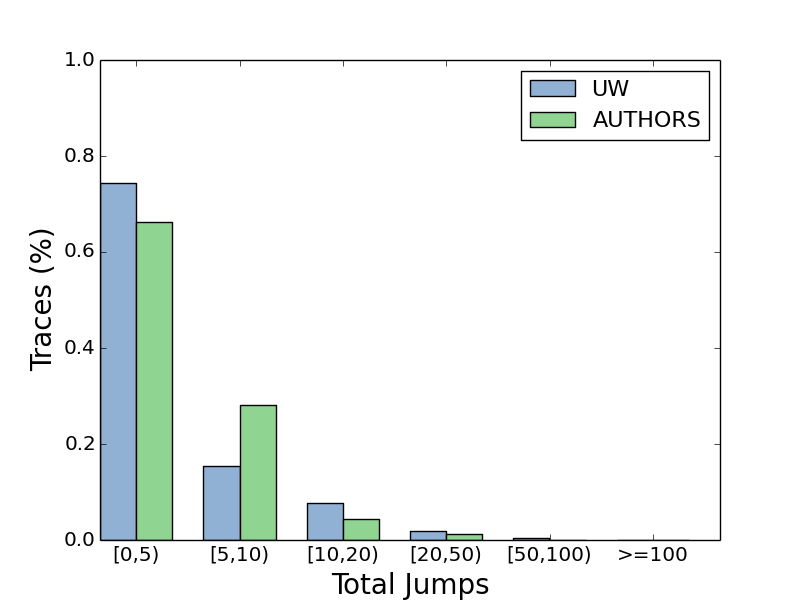
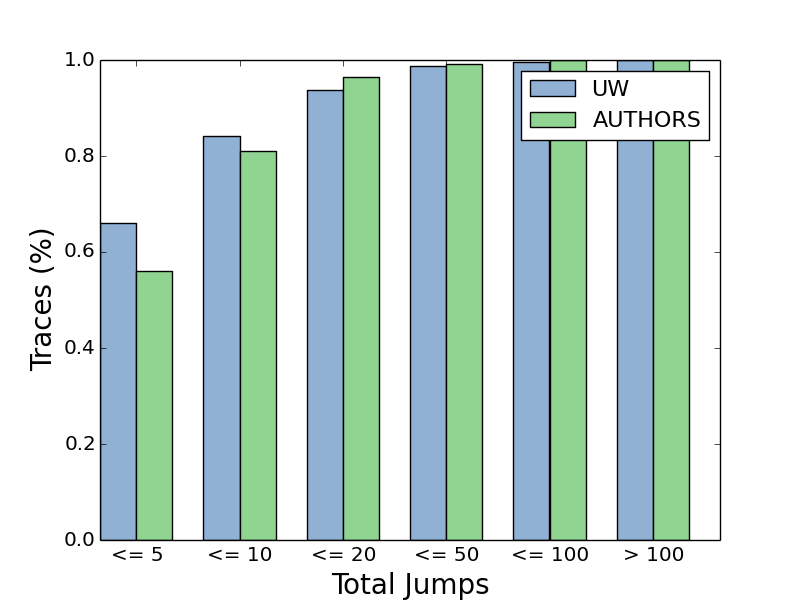
update numbers

diff --git a/paper/icfp16-submission/plots.py b/paper/icfp16-submission/plots.py
@@ -56,7 +56,7 @@ def plot_coverage(seminal, ucsd):
     p2 = plt.bar(ind + width, [r[1] for r in xy_u], width,
                  color=COLORS[1])
 
-    plt.xlabel('Witness found in <x seconds', fontsize=20)
+    plt.xlabel('Witness found in <= x seconds', fontsize=20)
     plt.ylabel('Witnesses Found (% of total programs)', fontsize=20)
     plt.title('Cumulative Coverage', fontsize=24)
     plt.xticks(ind + width, [r[0] for r in xy_s], fontsize='large')
@@ -69,6 +69,14 @@ def plot_coverage(seminal, ucsd):
     # plt.show()
     fig.savefig('coverage.png')
     plt.close()
+
+BINS = [5, 10, 20, 50, 100, 1000]
+
+def cumulative_trace_size(data):
+    return [len([r for r in data
+                 if r <= l])
+            / float(len(data))
+            for l in BINS]
 
 def plot_trace_size(seminal, ucsd):
     # xy = cumulative_coverage(data)
@@ -86,8 +94,7 @@ def plot_trace_size(seminal, ucsd):
     step_u = [int(r[5]) for r in ucsd[1:] if r[4] in UNSAFE and int(r[5]) > 0]
     jump_u = [int(r[6]) for r in ucsd[1:] if r[4] in UNSAFE and int(r[6]) > 0]
     
-    bins = [0, 5, 10, 20, 50, 100, 1000]
-    binlabels = ['[0,5)', '[5,10)', '[10,20)', '[20,50)', '[50,100)', '>=100']
+    binlabels = ['<= 5', '<= 10', '<= 20', '<= 50', '<= 100', '> 100']
     ind = np.arange(0, len(binlabels))
     width = 0.35
     # plt.figure(figsize=(100,50))
@@ -100,11 +107,18 @@ def plot_trace_size(seminal, ucsd):
     # ax.set(adjustable='box-forced', aspect=4)
 
     fig = plt.figure()
-    y,binEdges=np.histogram(step_s,bins=bins)
-    p1 = plt.bar(ind, y / float(len(step_s)), label='UW', width=width, color=COLORS[0])
+    # y,binEdges=np.histogram(step_s,bins=bins)
+    c_step_s = cumulative_trace_size(step_s)
+    print('step complexity')
+    print('seminal:\t{}\t{}\t{}'.format(c_step_s[0], c_step_s[1], len(step_s)))
+    print('avg/med/max:\t{}\t{}\t{}'.format(np.mean(step_s), np.median(step_s), np.max(step_s)))
+    p1 = plt.bar(ind, c_step_s, label='UW', width=width, color=COLORS[0])
 
-    y,binEdges=np.histogram(step_u,bins=bins)
-    p2 = plt.bar(ind + width, y / float(len(step_u)), label=UCSD, width=width, color=COLORS[1])
+    # y,binEdges=np.histogram(step_u,bins=bins)
+    c_step_u = cumulative_trace_size(step_u)
+    print('ucsd:\t\t{}\t{}\t{}'.format(c_step_u[0], c_step_u[1], len(step_u)))
+    print('avg/med/max:\t{}\t{}\t{}'.format(np.mean(step_u), np.median(step_s), np.max(step_u)))
+    p2 = plt.bar(ind + width, c_step_u, label=UCSD, width=width, color=COLORS[1])
     plt.legend((p1[0],p2[0]), ('UW',UCSD), fontsize=16)
     plt.title('Trace Complexity', fontsize=24)
     plt.xlabel('Total Steps', fontsize=20)
@@ -127,15 +141,20 @@ def plot_trace_size(seminal, ucsd):
     # ax = axes[1]
     # ax.set(adjustable='box-forced', aspect=4)
 
-    y,binEdges=np.histogram(jump_s,bins=bins)
-    foo = y / float(len(jump_s)) 
-    print(foo[0] + foo[1])
-    p1 = plt.bar(ind, y / float(len(jump_s)), label='UW', width=width, color=COLORS[0])
+    c_jump_s = cumulative_trace_size(jump_s)
+    # y,binEdges=np.histogram(jump_s,bins=bins)
+    # foo = y / float(len(jump_s))
+    print('jump complexity')
+    print('seminal:\t{}\t{}\t{}'.format(c_jump_s[0], c_jump_s[1], len(jump_s)))
+    print('avg/med/max:\t{}\t{}\t{}'.format(np.mean(jump_s), np.median(jump_s), np.max(jump_s)))
+    p1 = plt.bar(ind, c_jump_s, label='UW', width=width, color=COLORS[0])
 
-    y,binEdges=np.histogram(jump_u,bins=bins)
-    foo = y / float(len(jump_u)) 
-    print(foo[0] + foo[1])
-    p2 = plt.bar(ind + width, y / float(len(jump_u)), label=UCSD, width=width, color=COLORS[1])
+    # y,binEdges=np.histogram(jump_u,bins=bins)
+    # foo = y / float(len(jump_u))
+    c_jump_u = cumulative_trace_size(jump_u)
+    print('ucsd:\t\t{}\t{}\t{}'.format(c_jump_u[0], c_jump_u[1], len(jump_u)))
+    print('avg/med/max:\t{}\t{}\t{}'.format(np.mean(jump_u), np.median(jump_s), np.max(jump_u)))
+    p2 = plt.bar(ind + width, c_jump_u, label=UCSD, width=width, color=COLORS[1])
     plt.legend((p1[0],p2[0]), ('UW',UCSD), fontsize=16)
     # plt.title('Complexity of Traces (in jumps)', fontsize=24)
     plt.xlabel('Total Jumps', fontsize=20)
@@ -148,6 +167,12 @@ def plot_trace_size(seminal, ucsd):
     plt.xticks(ind + width, binlabels, fontsize='large')
     plt.yticks(fontsize='large')
     # autolabel(ax, p2)
+
+    t_jump = cumulative_trace_size(jump_s + jump_u)
+    print('total:\t\t{}\t{}'.format(t_jump[0], t_jump[1]))
+    print('mean:\t\t{}'.format(np.mean(jump_s + jump_u)))
+    print('median:\t\t{}'.format(np.median(jump_s + jump_u)))
+    print('std:\t\t{}'.format(np.std(jump_s + jump_u)))
 
     # plt.suptitle('Size of generated traces', fontsize=16)
 

diff --git a/paper/icfp16-submission/evaluation.tex b/paper/icfp16-submission/evaluation.tex
@@ -176,8 +176,9 @@ the same example has size 19.
 \centering
 \includegraphics[width=\linewidth]{trace_size_step.png}
 \includegraphics[width=\linewidth]{trace_size_jump.png}
-\caption{Complexity of the generated traces. At least 90\% of the traces
-  have a jump complexity of less than 10, with an average of 3.}
+\caption{Complexity of the generated traces. 81\% of the combined traces
+  have a jump complexity of at most 10, with an average of 7 and a
+  median of 5.}
 \label{fig:results-complexity}
 \end{figure}
 %
@@ -187,11 +188,15 @@ the same example has size 19.
 The results of the experiment are summarized in
 Figure~\ref{fig:results-complexity}.
 %
-The average number of single-step reductions per trace is 26 for the \ucsdbench\
-dataset (27 for the \uwbench\ dataset) with a maximum of 2,744 (659 for
-\uwbench). The average number of jumps per trace is 3 (also 3 for
-\uwbench) with a maximium of 177 (52 for \uwbench). In both datasets at
-least 90\% of the traces contain fewer than 10 jumps.
+The average number of single-step reductions per trace is 31 for the
+\ucsdbench\ dataset (35 for the \uwbench\ dataset) with a maximum of
+2,745 (660 for \uwbench) and a median of 16 (also 16 for \uwbench).
+%
+The average number of jumps per trace is 7 (also 7 for \uwbench) with a
+maximium of 353 (105 for \uwbench) and a median of 4 (also 4 for
+\uwbench).
+%
+In both datasets at least 80\% of the traces contain at most 10 jumps.
 %
 
 \subsection{Discussion}

diff --git a/paper/icfp16-submission/introduction.tex b/paper/icfp16-submission/introduction.tex
@@ -150,8 +150,8 @@ witnesses for nearly 90\% of the programs, in under a second in the
 vast majority of cases.
 %
 Furthermore, we show that a simple interactive strategy yields
-compact counterexample traces with fewer than 5 steps for 60\%
-of the programs, and under 10 steps for 90\% of the programs.
+compact counterexample traces with at most 5 steps for 57\%
+of the programs, and at most 10 steps for 81\% of the programs.
 
 \smallskip
 Our results show that in the vast majority of

diff --git a/paper/icfp16-submission/abstract.tex b/paper/icfp16-submission/abstract.tex
@@ -23,5 +23,5 @@
   comprising over 4,500 ill-typed student programs.
   Our technique is able to generate witnesses for
   88\% of the programs, and our reduction graph
-  yields small counterexamples for 90\% of the witnesses.
+  yields small counterexamples for 81\% of the witnesses.
 \end{abstract}
